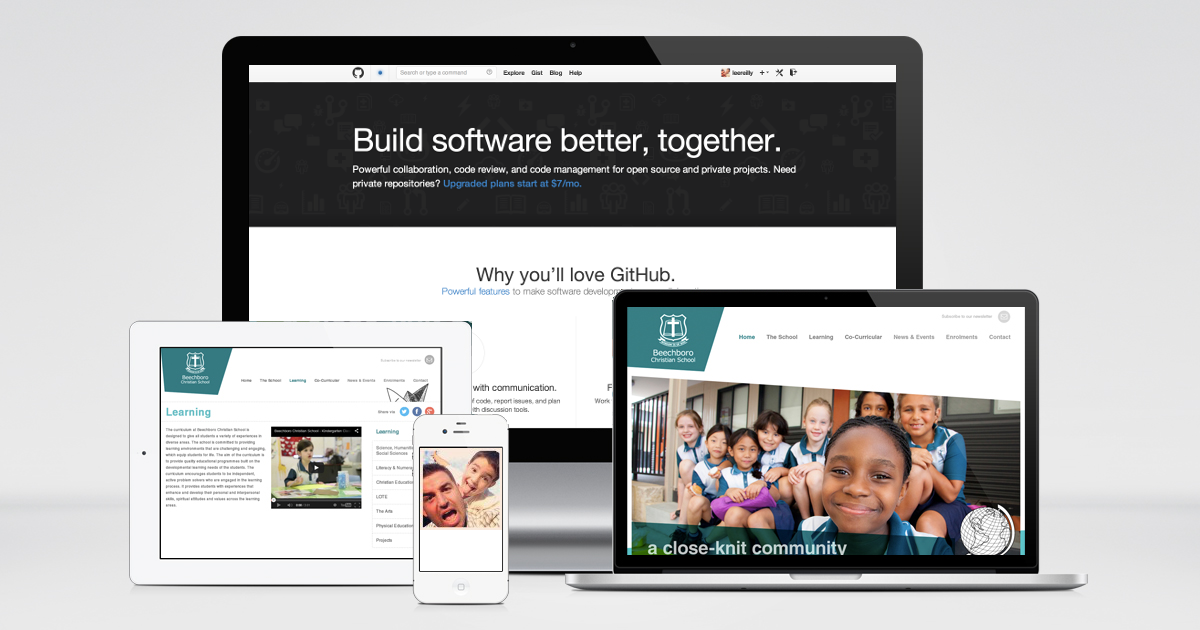
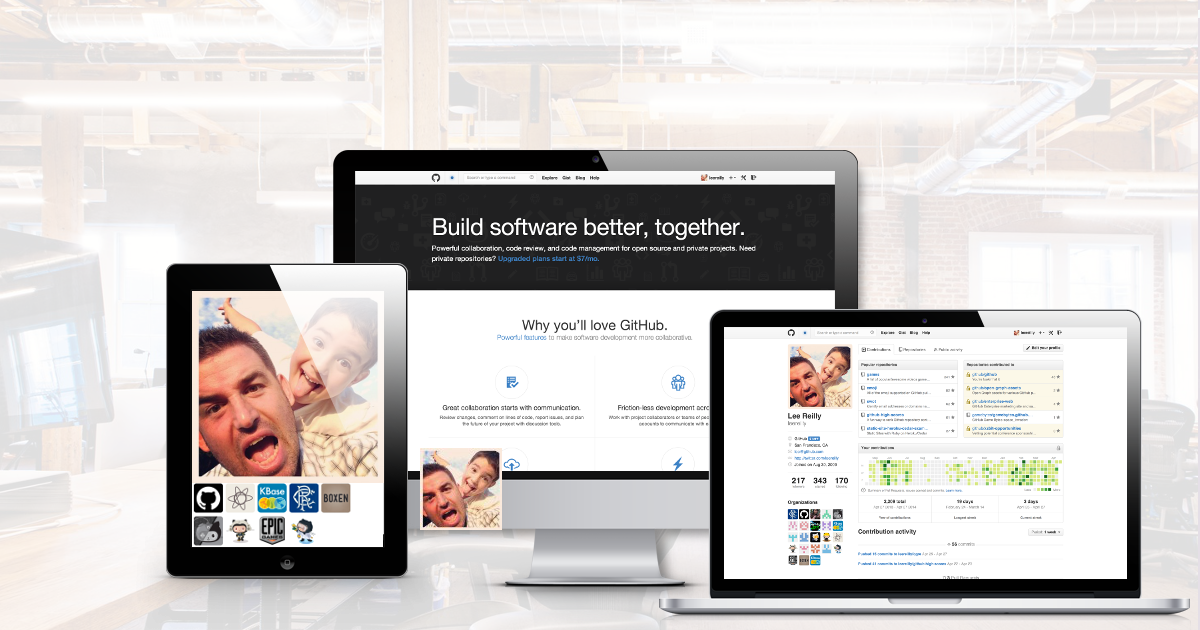
Add user profile to background

diff --git a/ogre.rb b/ogre.rb
@@ -9,11 +9,6 @@ require './lib/url2png'
 require './lib/startup'
 
 get '/' do
-  background = ChunkyPNG::Image.from_file('background.png')
-  blacktocat = ChunkyPNG::Image.from_file('leereilly.png')
-  background.compose!(blacktocat, 420, 448)
-  background.save('ogimage.png', :fast_rgba)
-
   erb :index
 end
 
@@ -25,12 +20,10 @@ get '/:user/?' do
     file << open("#{@user.avatar_url}s=82").read
   end
 
-  # convert to PNG
-  # image = MiniMagick::Image.open("public/user_jpgs/#{@user.login}.jpg")
-  # image.write "public/user_pngs/#{@user.login}.png"
-  thumb = Magick::Image.read("public/user_jpgs/#{@user.login}.jpg").first
-  thumb.format = "PNG"
-  thumb.write("public/user_pngs/#{@user.login}.png")
+  # convert JPG to PNG
+  png_image = Magick::Image.read("public/user_jpgs/#{@user.login}.jpg").first
+  png_image.format = "PNG"
+  png_image.write("public/user_pngs/#{@user.login}.png")
 
   # add avatar to background
   background = ChunkyPNG::Image.from_file('background.png')
@@ -41,13 +34,24 @@ get '/:user/?' do
   # get user profile image
   options = {
     url:"https://github.com/#{@user.login}",
-    thumbnail_max_width: 500,
-    viewport: "1480x1037",
-    fullpage: true,
+    thumbnail_max_width: 403,
+    thumbnail_max_height: 252,
+    viewport: "1024x768",
+    fullpage: false,
     unique: Time.now.to_i / 60       # forces a unique request at most once an hour
   }
 
-  @profile_image_url = Url2png.new(options).url
+  profile_image_url = Url2png.new(options).url
+
+  open("public/user_profiles/#{@user.login}.png", 'wb') do |file|
+    file << open(profile_image_url).read
+  end
+
+  # add user profile to background (724x327)
+  background = ChunkyPNG::Image.from_file('background.png')
+  profile_image = ChunkyPNG::Image.from_file("public/user_profiles/#{@user.login}.png")
+  background.compose!(profile_image, 724, 327)
+  background.save("public/user_og/#{@user.login}.png", :fast_rgba)
 
   erb :user
 end
